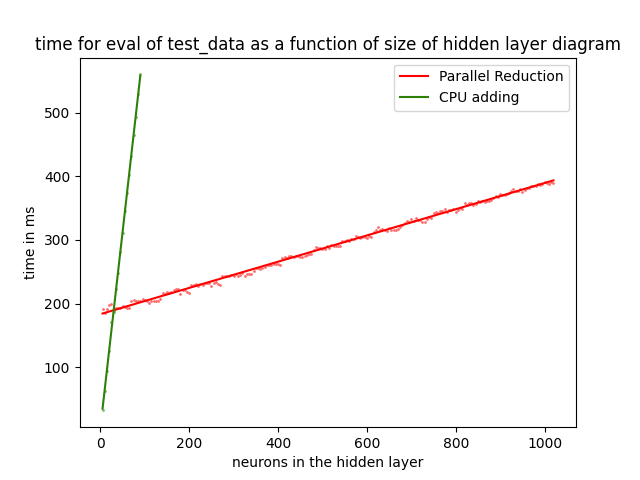
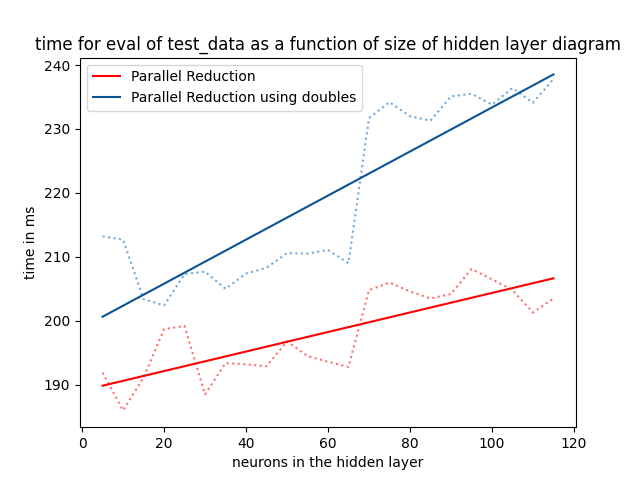
GPU_double added

diff --git a/compare/plot.py b/compare/plot.py
@@ -7,22 +7,27 @@ def plot_graph(filename, label, color1, color2):
 
     x_points = []
     y_points = []
+    counter = 0
     for line in file:
+        if (counter > 22):
+            break
         line = line.split(": ")
         x_points.append(float(line[0]))
         y_points.append(float(line[1]))
+        counter += 1
 
     slope, intercept, r, p, std_err = stats.linregress(x_points, y_points)
     def myfunc(x):
         return slope * x + intercept
 
     mymodel = list(map(myfunc, x_points))
-    #plt.plot(x_points, y_points, ":", color=color2)
-    plt.scatter(x_points, y_points, 1, color=color2)
+    plt.plot(x_points, y_points, ":", color=color2)
+    #plt.scatter(x_points, y_points, 10, color=color2)
     plt.plot(x_points, mymodel, color=color1, label=label)
 
 plot_graph("GPU.txt", "Parallel Reduction", "#FF0000", "#FF6e6e")
-plot_graph("CPU.txt", "CPU adding", "#2d8108", "#7ebc63")
+#plot_graph("CPU.txt", "CPU adding", "#2d8108", "#7ebc63")
+plot_graph("GPU_double.txt", "Parallel Reduction using doubles", "#0b5394", "#6fa8dc")
 
 
 plt.title("time for eval of test_data as a function of size of hidden layer diagram")

diff --git a/train/Network.h b/train/Network.h
@@ -45,6 +45,7 @@ enum {
 
 #define OUTPUT_NEURONS 10
 #define INPUT_NEURONS 28*28
+#define float double
 
 __constant__ int zero = 0;
 extern int* zero_pointer;
